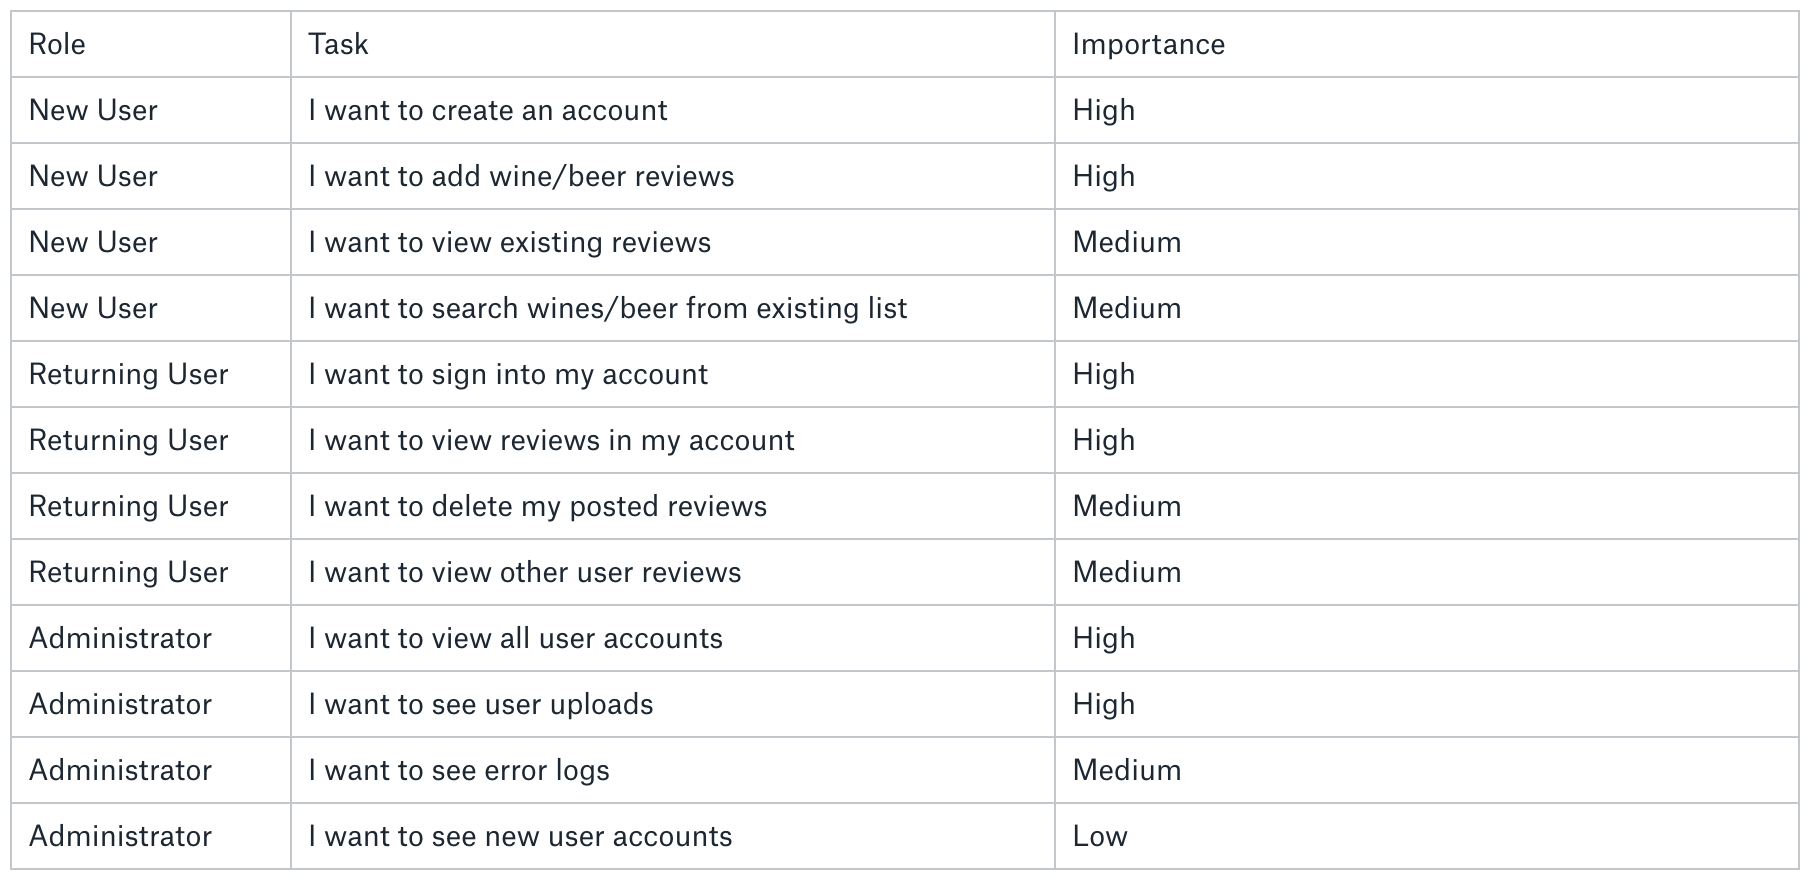
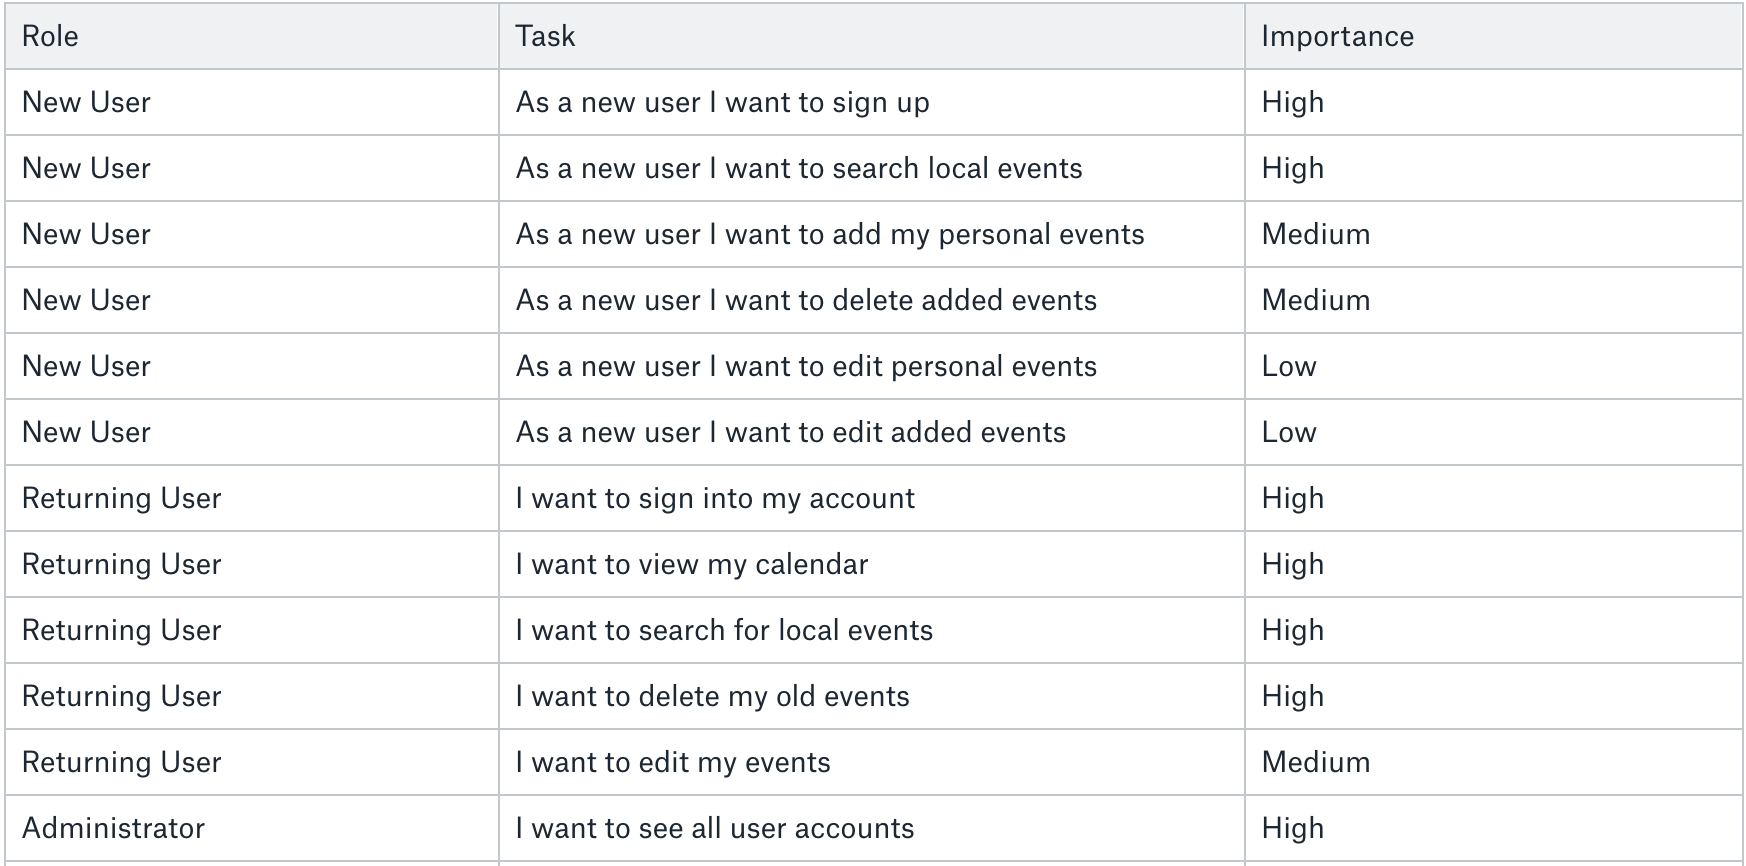
ReadMe

Changed region(s): [[0.0, 0.0, 1.0, 1.0], [0.1546, 0.343, 0.6495, 0.4365]]

diff --git a/README.md b/README.md
@@ -1,68 +1,71 @@
-This project was bootstrapped with [Create React App](https://github.com/facebook/create-react-app).
+# Just Go
+Just Go is an app that allows you to search events by name, location or type and then save them to your profile to potentially purchase later. It uses SeatGeek API to facilitate the search feature and links you to their site to purchase tickets! Stop saying maybe, and Just Go! <br>
+
+<a href="https://github.com/bahitssara/just-go-api" target="_blank">Just Go API Repo</a><br>
+<a href="https://github.com/bahitssara/Just-Go" target="_blank">Just Go Client Repo</a><br>
+<a href="https://just-go-app.now.sh/" target="_blank">Live Just Go Application</a>
+
+## Motivation
+As an avid concert goer, I have a very hard time remembering what events are in my area, or which I was planning on attending! From that experience, I came up with the idea for Just Go. This app not only allows you to search concerts but any listed local events that may require a ticket purchase. This app is an easy way for people like me to never forget an event they may want to attend, or even just entertain their wishful thinking and save them just in case!
+
+## <u>User-stories, UX Wireframes, Screenshots</u>
+![User stories](images/user-stories.png)
+#### As a user I want to create an account
+![Welcome Page](images/wire-frame-home.png)
+
+![SignUp Page](images/wire-frame-sign-up.png)
+#### As a user I want to search events
+![Search page](images/wire-frame-events.png)
+
+
+## <Center>Desktop view</center>
+#### Home page
+![Desktop home page](images/home-page.png)
+#### Registration page
+![Sign Up Page](images/sign-up-page.png)
+#### Events page
+![Events Page](images/events-page.png)
+
+## Summary
+Sign up, search events by location, event type, artist, musician, venue, ANYTHING. Save these events to your profile to either remember the events you're already attending OR save them to get tickets when you can. Whether it's wishful thinking or a full on game plan, Just Go!
+
+## Built with
+  ### Front end
+    -HTML
+    -Javascript
+    -React
+    -CSS
+
+  ### Back end
+    -Node.js
+    -Express.js
+    -PostgreSQL
+    -Mocha and Chai for testing
+
+  ### 3rd Party API
+  #### SeatGeek
+  For issues or questions visit their API support page.
+  <a href="https://github.com/seatgeek/api-support" target="_blank">SeatGeek API Support</a><br>
+
+## Development road map
+  * Allow for manual addition of events for any event that doesn't populate in the search, but you still want to remember to attend.
+  * See other's saved events and allow for sharing.
+  * Add an 'Attending' badge if you have already purchased tickets.
+
 
 ## Available Scripts
 
-In the project directory, you can run:
+### Node Js
+  ```npm install``` - Installs node modules<br>
+  ```npm run dev```- Starts development/node server<br>
+  ```npm test``` - Runs tests
 
-### `npm start`
+### React
+  ```npm install``` - Installs node modules<br>
+  ```npm test``` - Runs tests
+  ```npm start``` - Runs React App in development mode<br>
+  Open [http://localhost:3000](http://localhost:3000) to view it in the browser.<br>
 
-Runs the app in the development mode.<br>
-Open [http://localhost:3000](http://localhost:3000) to view it in the browser.
 
 The page will reload if you make edits.<br>
 You will also see any lint errors in the console.
-
-### `npm test`
-
-Launches the test runner in the interactive watch mode.<br>
-See the section about [running tests](https://facebook.github.io/create-react-app/docs/running-tests) for more information.
-
-### `npm run build`
-
-Builds the app for production to the `build` folder.<br>
-It correctly bundles React in production mode and optimizes the build for the best performance.
-
-The build is minified and the filenames include the hashes.<br>
-Your app is ready to be deployed!
-
-See the section about [deployment](https://facebook.github.io/create-react-app/docs/deployment) for more information.
-
-### `npm run eject`
-
-**Note: this is a one-way operation. Once you `eject`, you can’t go back!**
-
-If you aren’t satisfied with the build tool and configuration choices, you can `eject` at any time. This command will remove the single build dependency from your project.
-
-Instead, it will copy all the configuration files and the transitive dependencies (Webpack, Babel, ESLint, etc) right into your project so you have full control over them. All of the commands except `eject` will still work, but they will point to the copied scripts so you can tweak them. At this point you’re on your own.
-
-You don’t have to ever use `eject`. The curated feature set is suitable for small and middle deployments, and you shouldn’t feel obligated to use this feature. However we understand that this tool wouldn’t be useful if you couldn’t customize it when you are ready for it.
-
-## Learn More
-
-You can learn more in the [Create React App documentation](https://facebook.github.io/create-react-app/docs/getting-started).
-
-To learn React, check out the [React documentation](https://reactjs.org/).
-
-### Code Splitting
-
-This section has moved here: https://facebook.github.io/create-react-app/docs/code-splitting
-
-### Analyzing the Bundle Size
-
-This section has moved here: https://facebook.github.io/create-react-app/docs/analyzing-the-bundle-size
-
-### Making a Progressive Web App
-
-This section has moved here: https://facebook.github.io/create-react-app/docs/making-a-progressive-web-app
-
-### Advanced Configuration
-
-This section has moved here: https://facebook.github.io/create-react-app/docs/advanced-configuration
-
-### Deployment
-
-This section has moved here: https://facebook.github.io/create-react-app/docs/deployment
-
-### `npm run build` fails to minify
-
-This section has moved here: https://facebook.github.io/create-react-app/docs/troubleshooting#npm-run-build-fails-to-minify
